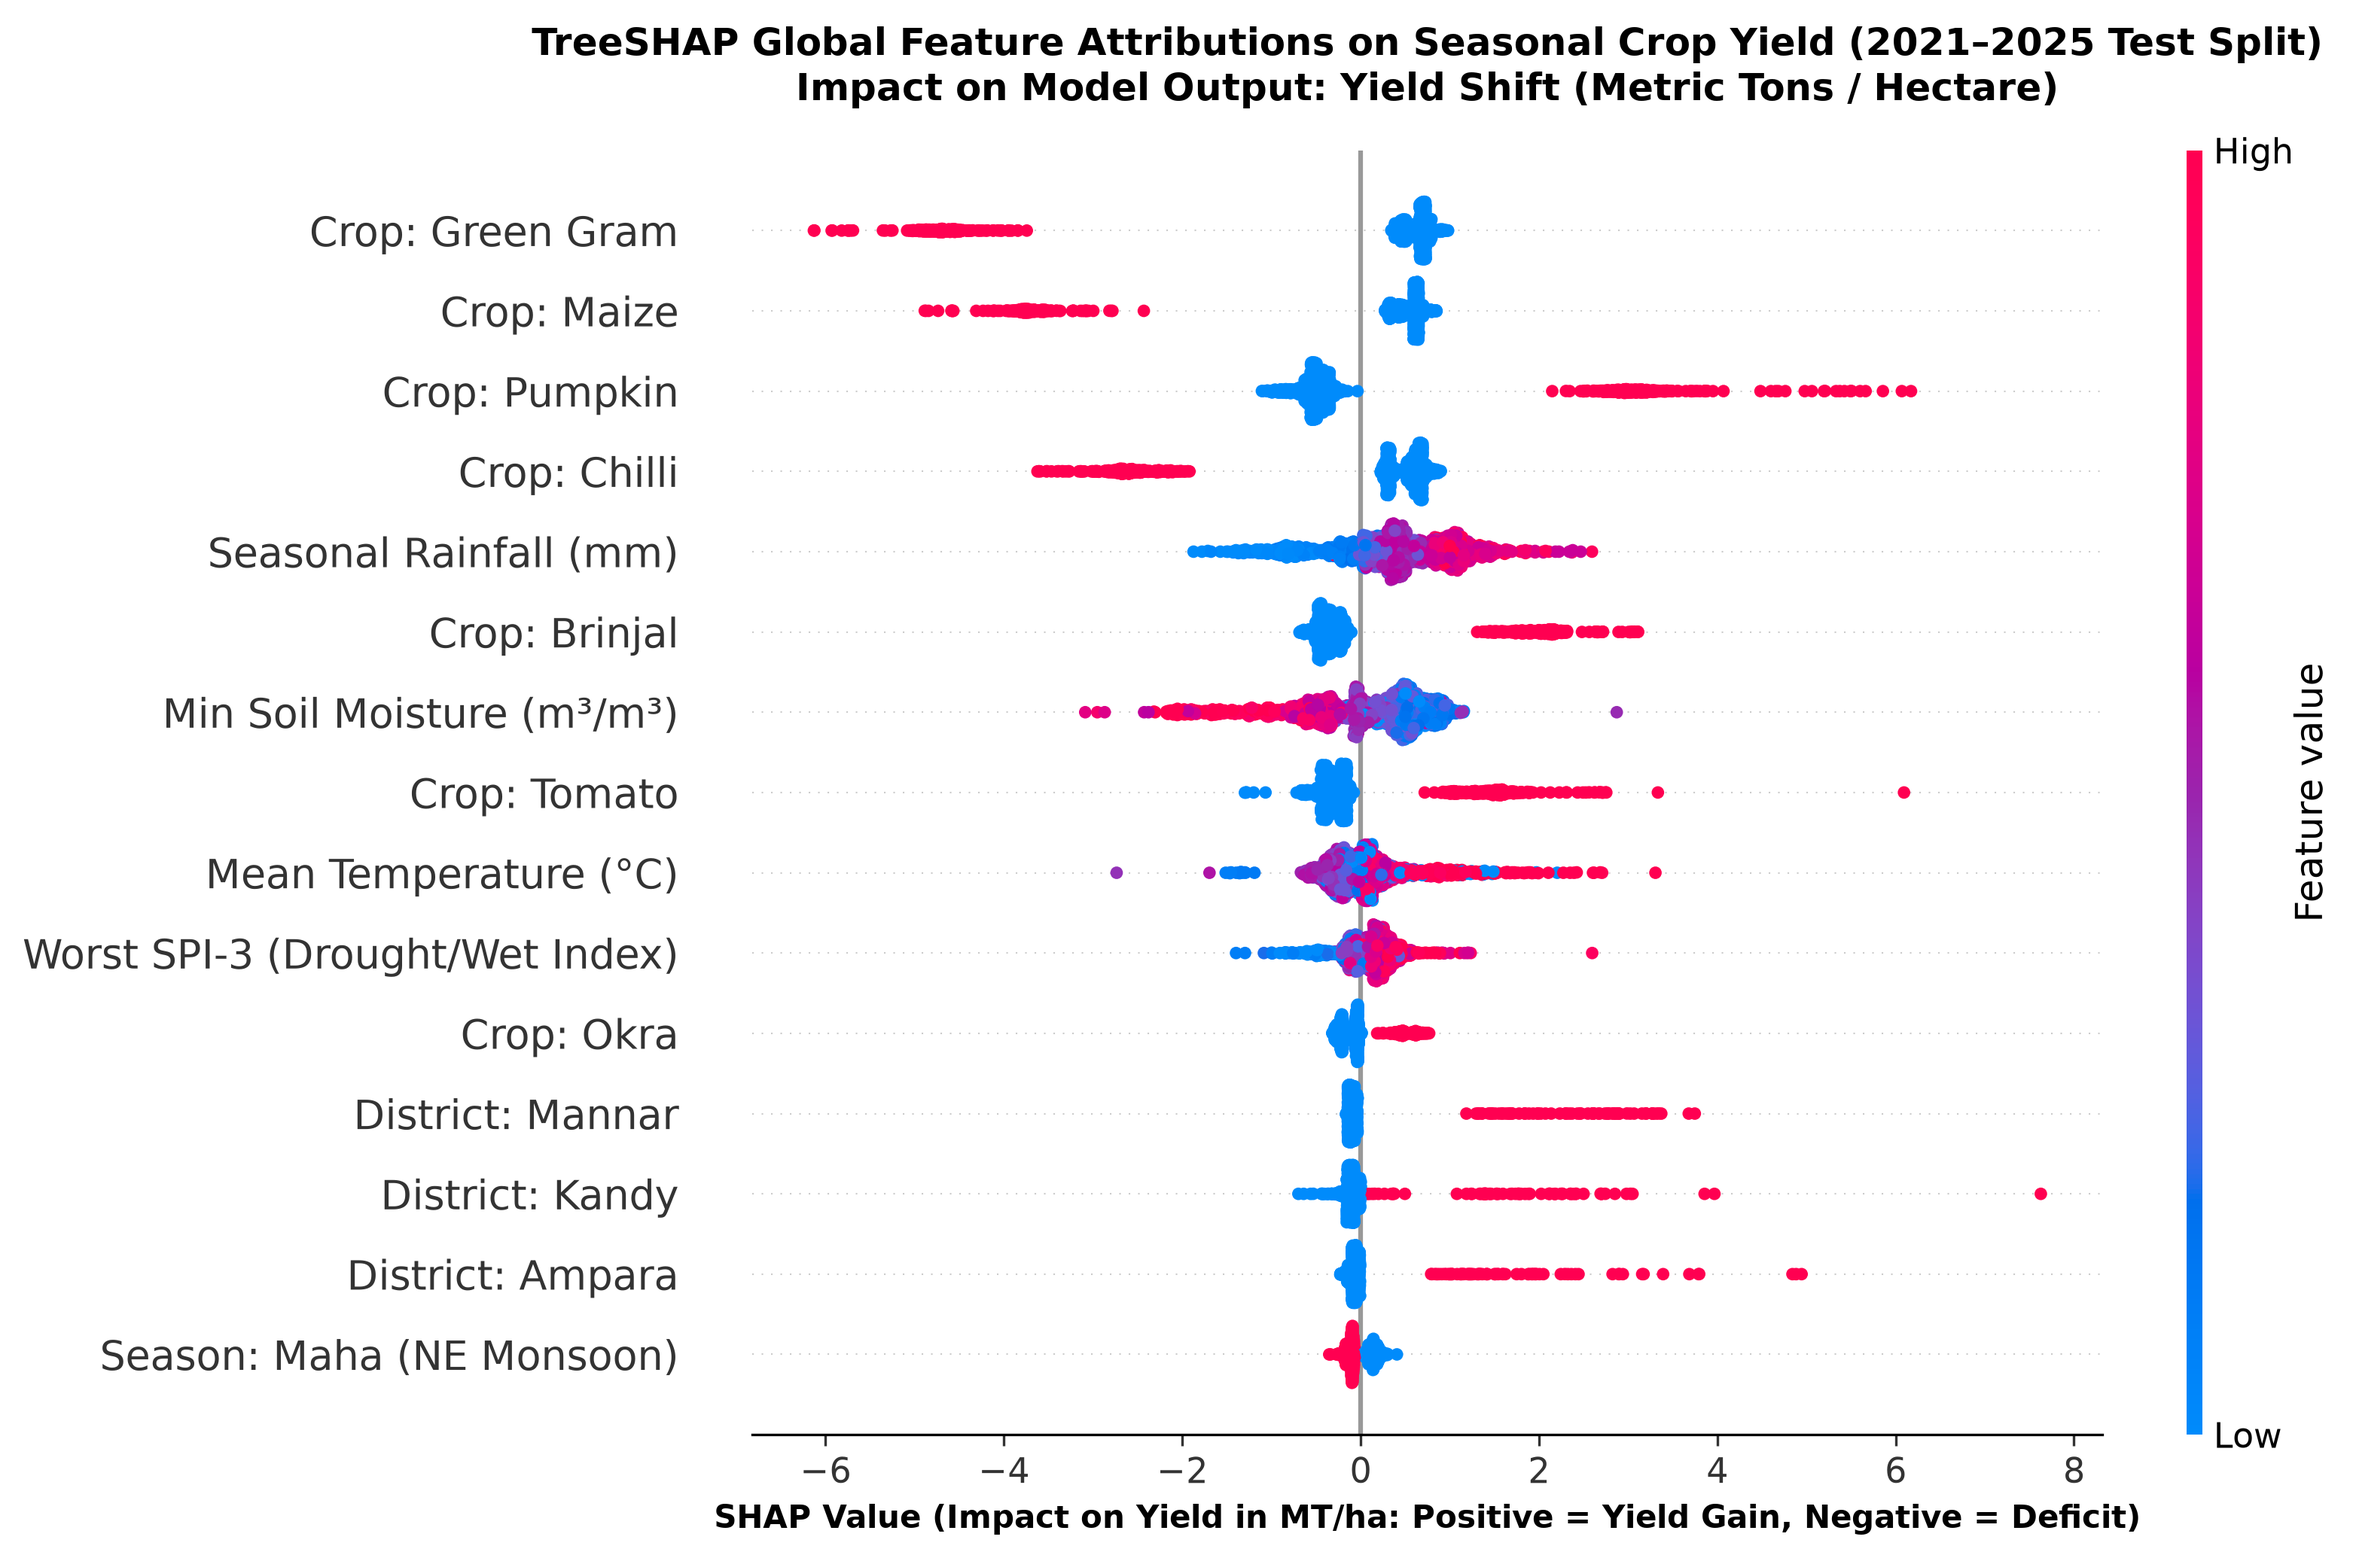
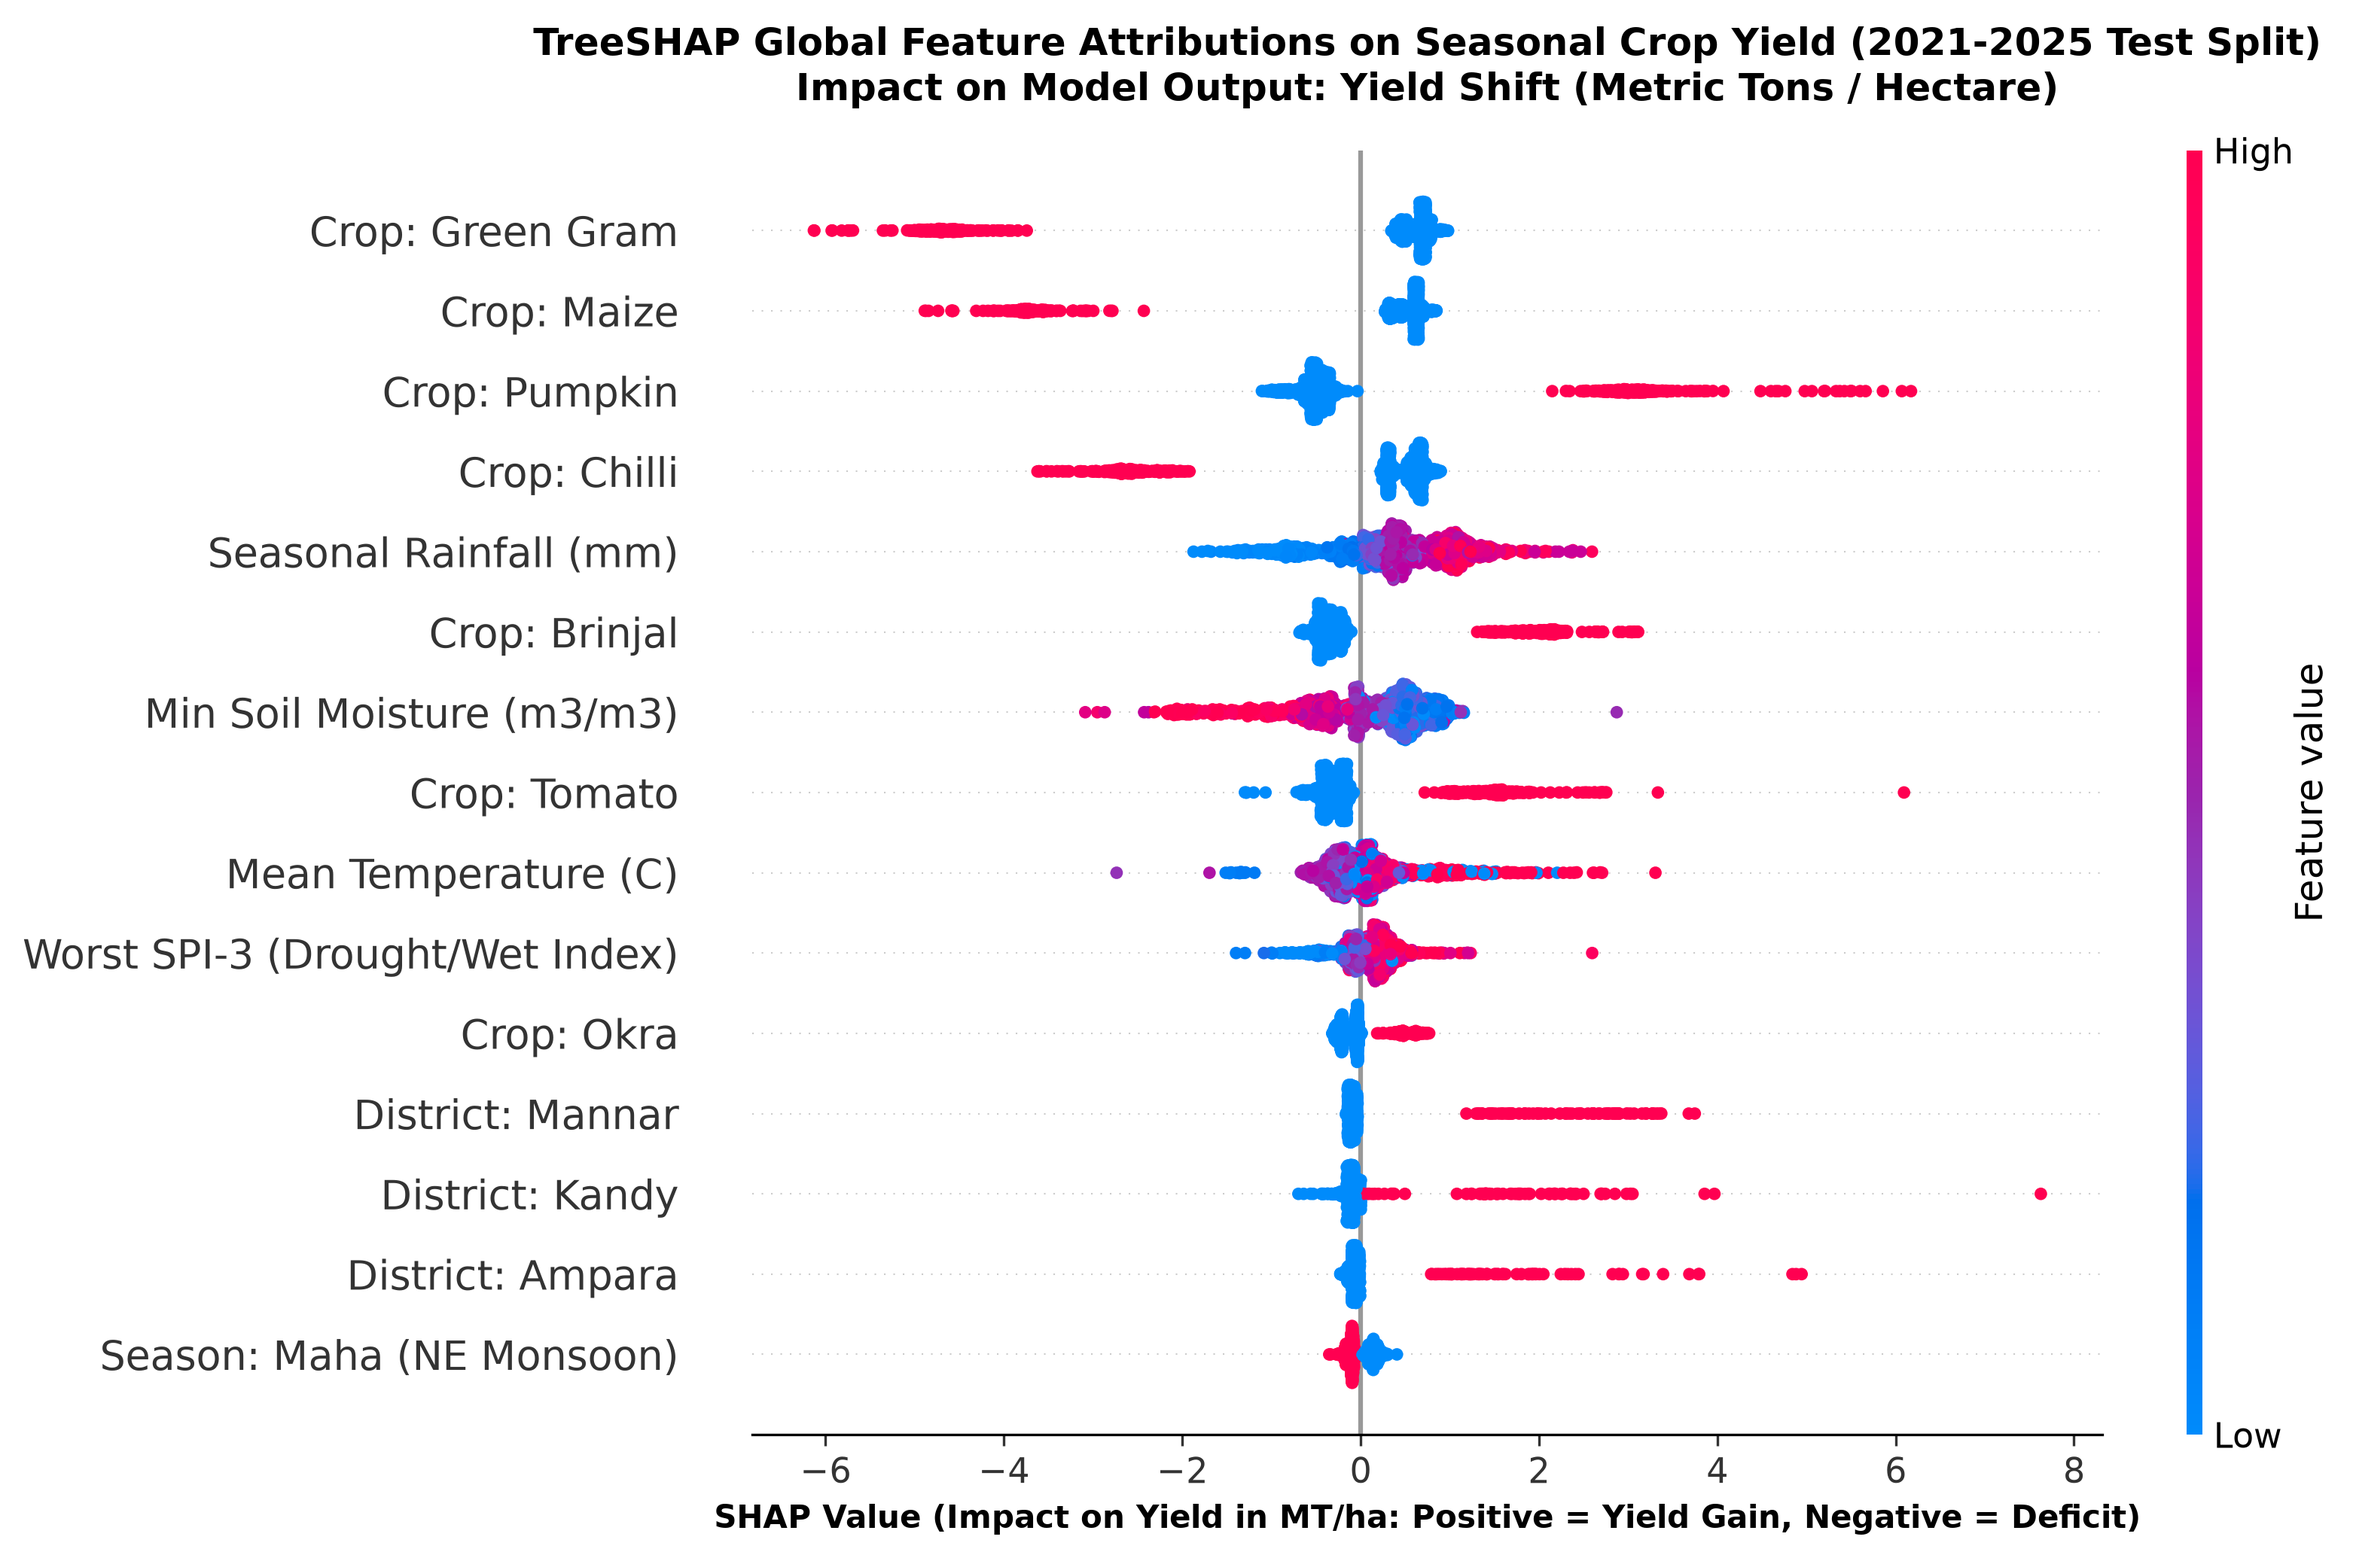
feat(xai): add local TreeSHAP waterfall disaster attributions for drought and flood

diff --git a/backend/climate-yield/ml/generate_shap_explanations.py b/backend/climate-yield/ml/generate_shap_explanations.py
@@ -1,6 +1,11 @@
 """
 TreeSHAP Explainability Generator
 Quantifies global and local climate feature attributions on crop yield.
+Generates:
+  1. Global Beeswarm Summary Plot (shap_global_summary.png)
+  2. Local Drought Shock Waterfall Plot (shap_waterfall_drought.png)
+  3. Local Flood/Deluge Shock Waterfall Plot (shap_waterfall_flood.png)
+  4. Global Feature Importance Rankings (shap_feature_importance.json)
 """
 
 import os
@@ -52,9 +57,9 @@ X_raw = pd.get_dummies(df[CAT_COLS + NUM_COLS], columns=CAT_COLS, drop_first=Fal
 # Human-readable feature naming dictionary for visualization
 FEATURE_NAME_MAP = {
     "rainfall_growing_season_total_mm": "Seasonal Rainfall (mm)",
-    "soil_moisture_growing_season_min": "Min Soil Moisture (m³/m³)",
+    "soil_moisture_growing_season_min": "Min Soil Moisture (m3/m3)",
     "spi3_growing_season_worst": "Worst SPI-3 (Drought/Wet Index)",
-    "temp_growing_season_mean_c": "Mean Temperature (°C)",
+    "temp_growing_season_mean_c": "Mean Temperature (C)",
     "irrigation_zone_type_Major Irrigation": "Zone: Major Irrigation",
     "irrigation_zone_type_Minor / Rainfed": "Zone: Rainfed / Minor",
     "season_Maha": "Season: Maha (NE Monsoon)",
@@ -68,13 +73,13 @@ FEATURE_NAME_MAP = {
     "crop_name_Tomato": "Crop: Tomato"
 }
 
-# Apply feature naming
 X_display = X_raw.rename(columns=lambda col: FEATURE_NAME_MAP.get(col, col.replace("district_", "District: ")))
 
 # Test Split (2021-2025 unseen observations)
 test_mask = df["crop_year"] >= 2021
-X_test_raw = X_raw[test_mask]
-X_test_display = X_display[test_mask]
+X_test_raw = X_raw[test_mask].reset_index(drop=True)
+X_test_display = X_display[test_mask].reset_index(drop=True)
+test_df = df[test_mask].reset_index(drop=True)
 
 print(f"Evaluating SHAP attributions across {len(X_test_raw):,} unseen test samples (2021-2025)...")
 
@@ -115,9 +120,9 @@ for f in feature_importance_list[:10]:
 # Categorical Group Importance Summary
 climate_features = [
     "Seasonal Rainfall (mm)",
-    "Min Soil Moisture (m³/m³)",
+    "Min Soil Moisture (m3/m3)",
     "Worst SPI-3 (Drought/Wet Index)",
-    "Mean Temperature (°C)"
+    "Mean Temperature (C)"
 ]
 climate_importance_sum = sum(f["relative_importance_pct"] for f in feature_importance_list if f["feature"] in climate_features)
 crop_importance_sum = sum(f["relative_importance_pct"] for f in feature_importance_list if f["feature"].startswith("Crop:"))
@@ -138,6 +143,66 @@ importance_summary = {
 }
 
 # ------------------------------------------------------------------------------
+# Helper for Grouped Local Waterfall Attributions
+# ------------------------------------------------------------------------------
+def build_grouped_waterfall(idx, test_df, X_test_raw, shap_vals):
+    row_meta = test_df.iloc[idx]
+    cols = list(X_test_raw.columns)
+    
+    crop_name = row_meta["crop_name"]
+    district = row_meta["district"]
+    season = row_meta["season"]
+    zone = row_meta["irrigation_zone_type"]
+    
+    crop_cols = [i for i, c in enumerate(cols) if c.startswith("crop_name_")]
+    dist_cols = [i for i, c in enumerate(cols) if c.startswith("district_")]
+    season_cols = [i for i, c in enumerate(cols) if c.startswith("season_")]
+    zone_cols = [i for i, c in enumerate(cols) if c.startswith("irrigation_zone_type_")]
+    
+    rain_idx = cols.index("rainfall_growing_season_total_mm")
+    soil_idx = cols.index("soil_moisture_growing_season_min")
+    spi_idx = cols.index("spi3_growing_season_worst")
+    temp_idx = cols.index("temp_growing_season_mean_c")
+    
+    crop_shap = sum(shap_vals.values[idx][i] for i in crop_cols)
+    dist_shap = sum(shap_vals.values[idx][i] for i in dist_cols)
+    season_shap = sum(shap_vals.values[idx][i] for i in season_cols)
+    zone_shap = sum(shap_vals.values[idx][i] for i in zone_cols)
+    
+    rain_shap = shap_vals.values[idx][rain_idx]
+    soil_shap = shap_vals.values[idx][soil_idx]
+    spi_shap = shap_vals.values[idx][spi_idx]
+    temp_shap = shap_vals.values[idx][temp_idx]
+    
+    new_names = [
+        f"Crop Baseline ({crop_name})",
+        f"Seasonal Rainfall ({row_meta['rainfall_growing_season_total_mm']:.0f} mm)",
+        f"Worst SPI-3 Index ({row_meta['spi3_growing_season_worst']:+.2f})",
+        f"Min Soil Moisture ({row_meta['soil_moisture_growing_season_min']:.3f} m3/m3)",
+        f"Mean Temperature ({row_meta['temp_growing_season_mean_c']:.1f} C)",
+        f"District Context ({district})",
+        f"Season Type ({season})",
+        f"Irrigation ({zone})"
+    ]
+    new_values = np.array([crop_shap, rain_shap, spi_shap, soil_shap, temp_shap, dist_shap, season_shap, zone_shap])
+    new_data = np.array([
+        1,
+        row_meta["rainfall_growing_season_total_mm"],
+        row_meta["spi3_growing_season_worst"],
+        row_meta["soil_moisture_growing_season_min"],
+        row_meta["temp_growing_season_mean_c"],
+        1, 1, 1
+    ])
+    
+    exp = shap.Explanation(
+        values=new_values,
+        base_values=shap_vals[idx].base_values,
+        data=new_data,
+        feature_names=new_names
+    )
+    return exp
+
+# ------------------------------------------------------------------------------
 # Export Artifacts
 # ------------------------------------------------------------------------------
 target_dirs = [OUTPUT_DIR]
@@ -147,7 +212,7 @@ for d in target_dirs:
     
     # 1. JSON Export
     json_path = os.path.join(d, "shap_feature_importance.json")
-    with open(json_path, "w") as f:
+    with open(json_path, "w", encoding="utf-8") as f:
         json.dump(importance_summary, f, indent=2)
     print(f"\n[Artifact Saved] -> {json_path}")
 
@@ -162,7 +227,7 @@ for d in target_dirs:
         plot_size=(11, 7)
     )
     plt.title(
-        "TreeSHAP Global Feature Attributions on Seasonal Crop Yield (2021–2025 Test Split)\n"
+        "TreeSHAP Global Feature Attributions on Seasonal Crop Yield (2021-2025 Test Split)\n"
         "Impact on Model Output: Yield Shift (Metric Tons / Hectare)",
         fontsize=12,
         fontweight="bold",
@@ -173,6 +238,50 @@ for d in target_dirs:
     plt.savefig(plot_path, bbox_inches="tight")
     plt.close()
     print(f"[Artifact Saved] -> {plot_path}")
+
+    # 3. Local Drought Shock Waterfall Plot (300 DPI)
+    # 2023 Yala Puttalam Maize (index 840 in test_df)
+    drought_matches = test_df[(test_df["crop_year"] == 2023) & (test_df["season"] == "Yala") & (test_df["district"] == "Puttalam") & (test_df["crop_name"] == "Maize")]
+    if not drought_matches.empty:
+        drought_idx = drought_matches.index[0]
+        exp_drought = build_grouped_waterfall(drought_idx, test_df, X_test_raw, shap_values)
+        drought_plot_path = os.path.join(d, "shap_waterfall_drought.png")
+        plt.figure(figsize=(10, 6), dpi=300)
+        shap.plots.waterfall(exp_drought, max_display=8, show=False)
+        plt.title(
+            "TreeSHAP Disaster Attribution: 2023 Yala Puttalam Maize (Severe Drought Shock)\n"
+            f"Actual Yield: {test_df.iloc[drought_idx]['yield_metric_tons_per_hectare']:.2f} MT/ha | Model Prediction f(x): {exp_drought.values.sum() + exp_drought.base_values:.2f} MT/ha",
+            fontsize=11,
+            fontweight="bold",
+            pad=14
+        )
+        plt.xlabel("Yield Shift (Metric Tons / Hectare)", fontsize=10, fontweight="bold")
+        plt.tight_layout()
+        plt.savefig(drought_plot_path, bbox_inches="tight")
+        plt.close()
+        print(f"[Artifact Saved] -> {drought_plot_path}")
+
+    # 4. Local Monsoon Deluge / Flood Shock Waterfall Plot (300 DPI)
+    # 2024 Maha Polonnaruwa Maize (index 861 in test_df)
+    flood_matches = test_df[(test_df["crop_year"] == 2024) & (test_df["season"] == "Maha") & (test_df["district"] == "Polonnaruwa") & (test_df["crop_name"] == "Maize")]
+    if not flood_matches.empty:
+        flood_idx = flood_matches.index[0]
+        exp_flood = build_grouped_waterfall(flood_idx, test_df, X_test_raw, shap_values)
+        flood_plot_path = os.path.join(d, "shap_waterfall_flood.png")
+        plt.figure(figsize=(10, 6), dpi=300)
+        shap.plots.waterfall(exp_flood, max_display=8, show=False)
+        plt.title(
+            "TreeSHAP Disaster Attribution: 2024 Maha Polonnaruwa Maize (Extreme Monsoon Deluge)\n"
+            f"Actual Yield: {test_df.iloc[flood_idx]['yield_metric_tons_per_hectare']:.2f} MT/ha | Model Prediction f(x): {exp_flood.values.sum() + exp_flood.base_values:.2f} MT/ha",
+            fontsize=11,
+            fontweight="bold",
+            pad=14
+        )
+        plt.xlabel("Yield Shift (Metric Tons / Hectare)", fontsize=10, fontweight="bold")
+        plt.tight_layout()
+        plt.savefig(flood_plot_path, bbox_inches="tight")
+        plt.close()
+        print(f"[Artifact Saved] -> {flood_plot_path}")
 
 print("=" * 80)
 print("TREESHAP EXPLANATION PIPELINE COMPLETE!")
